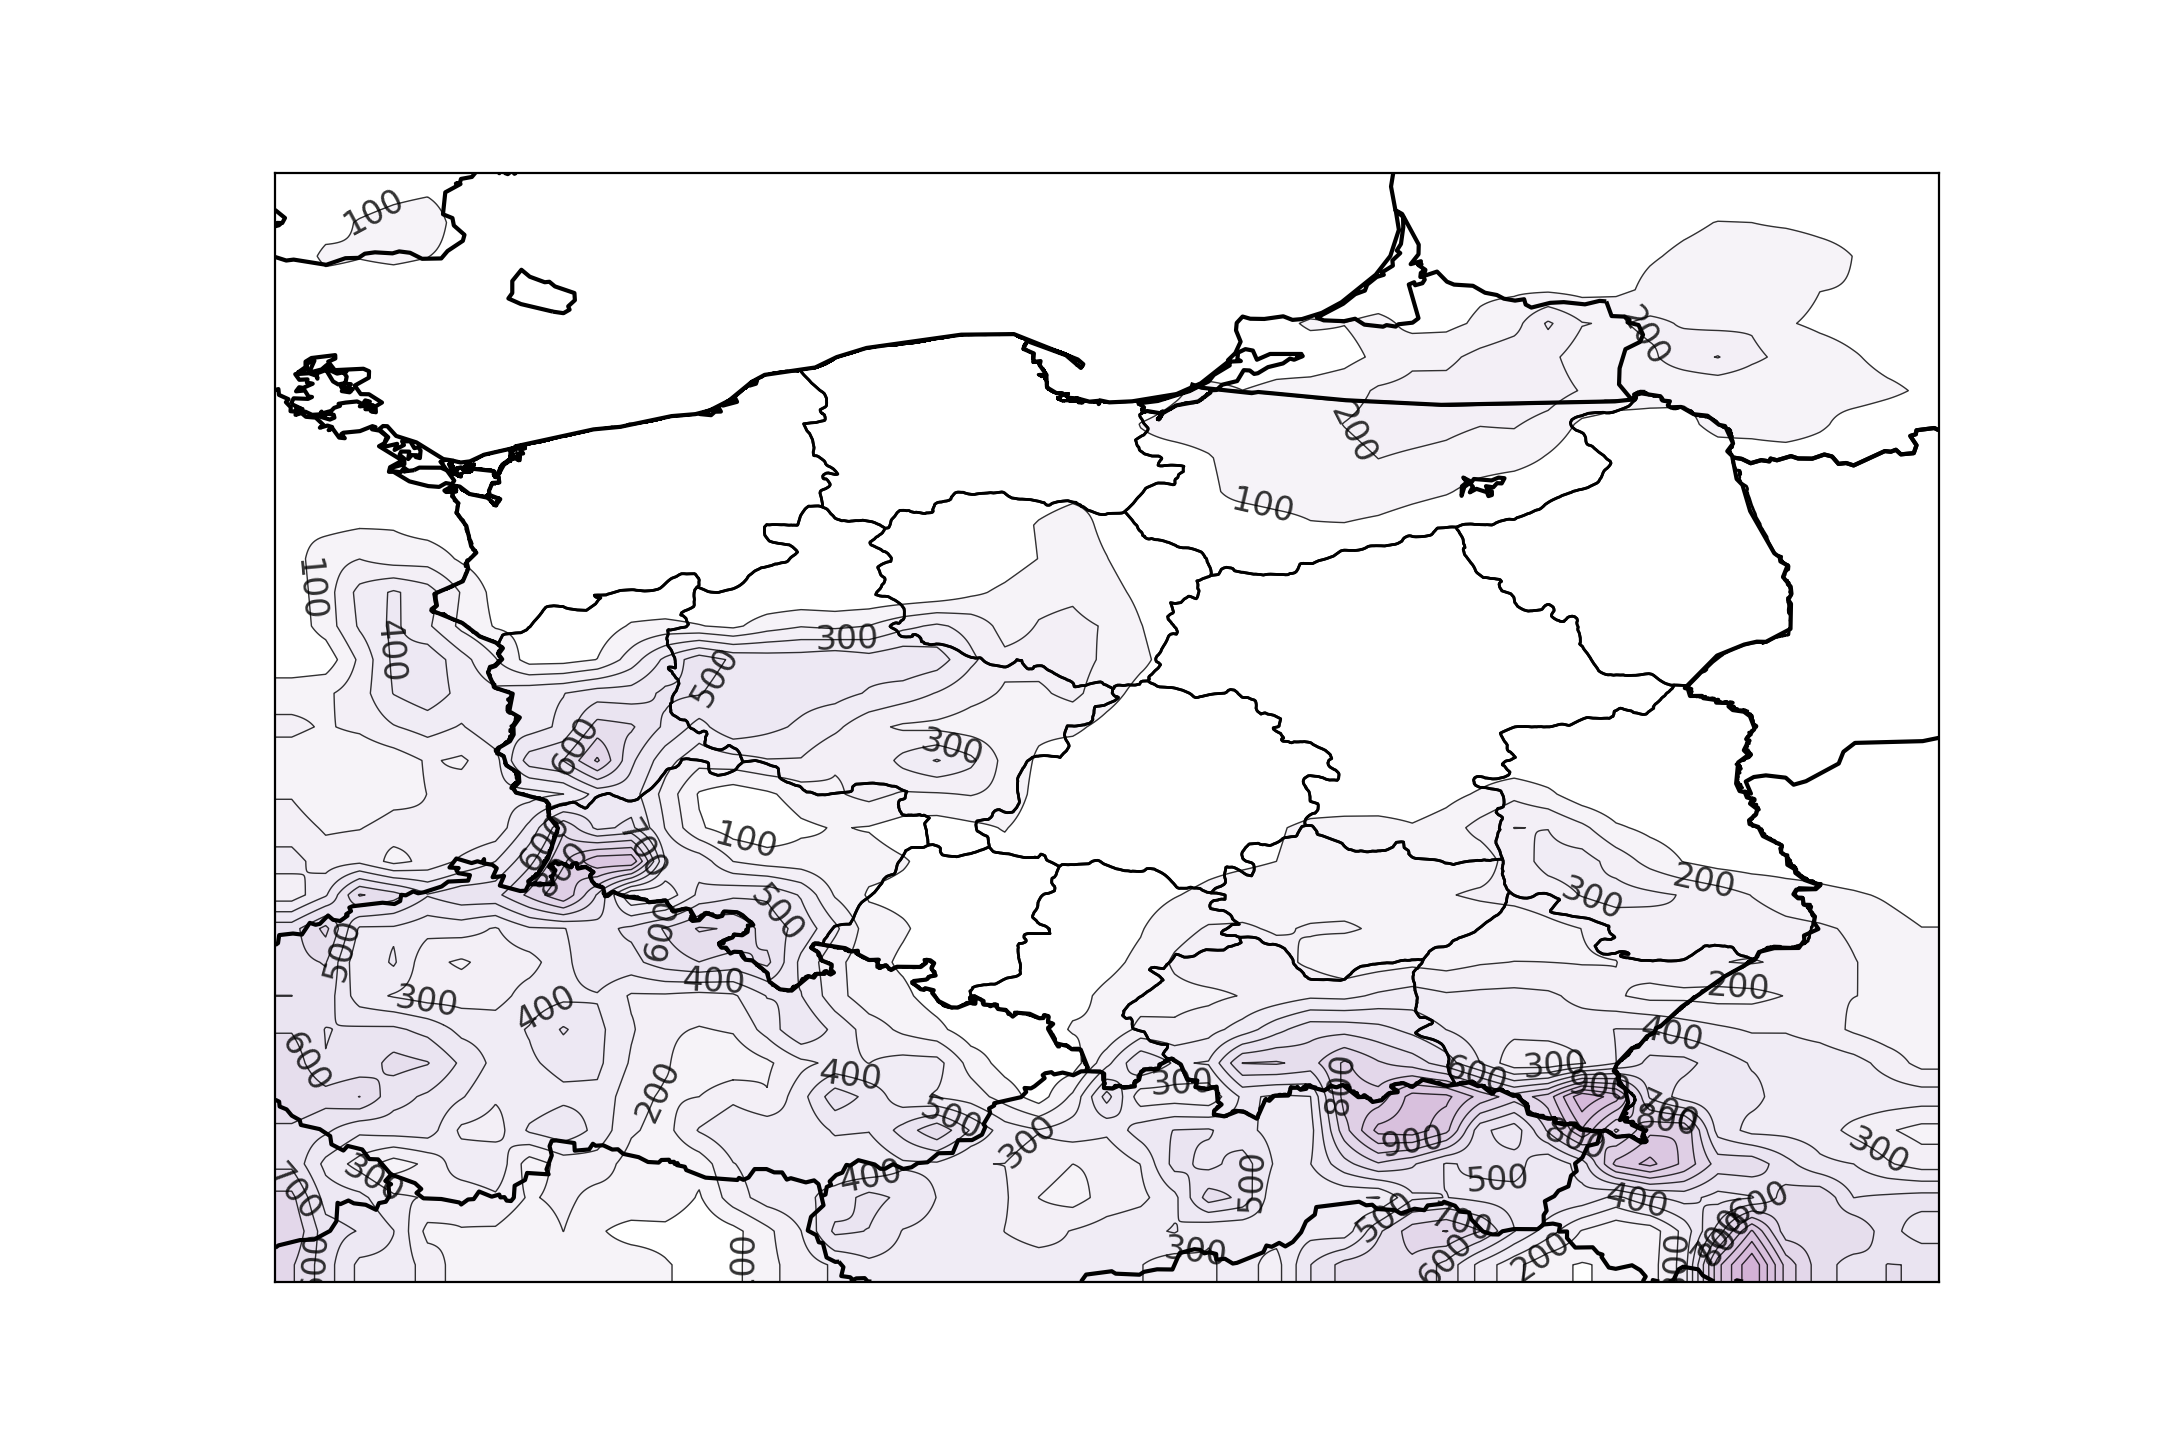
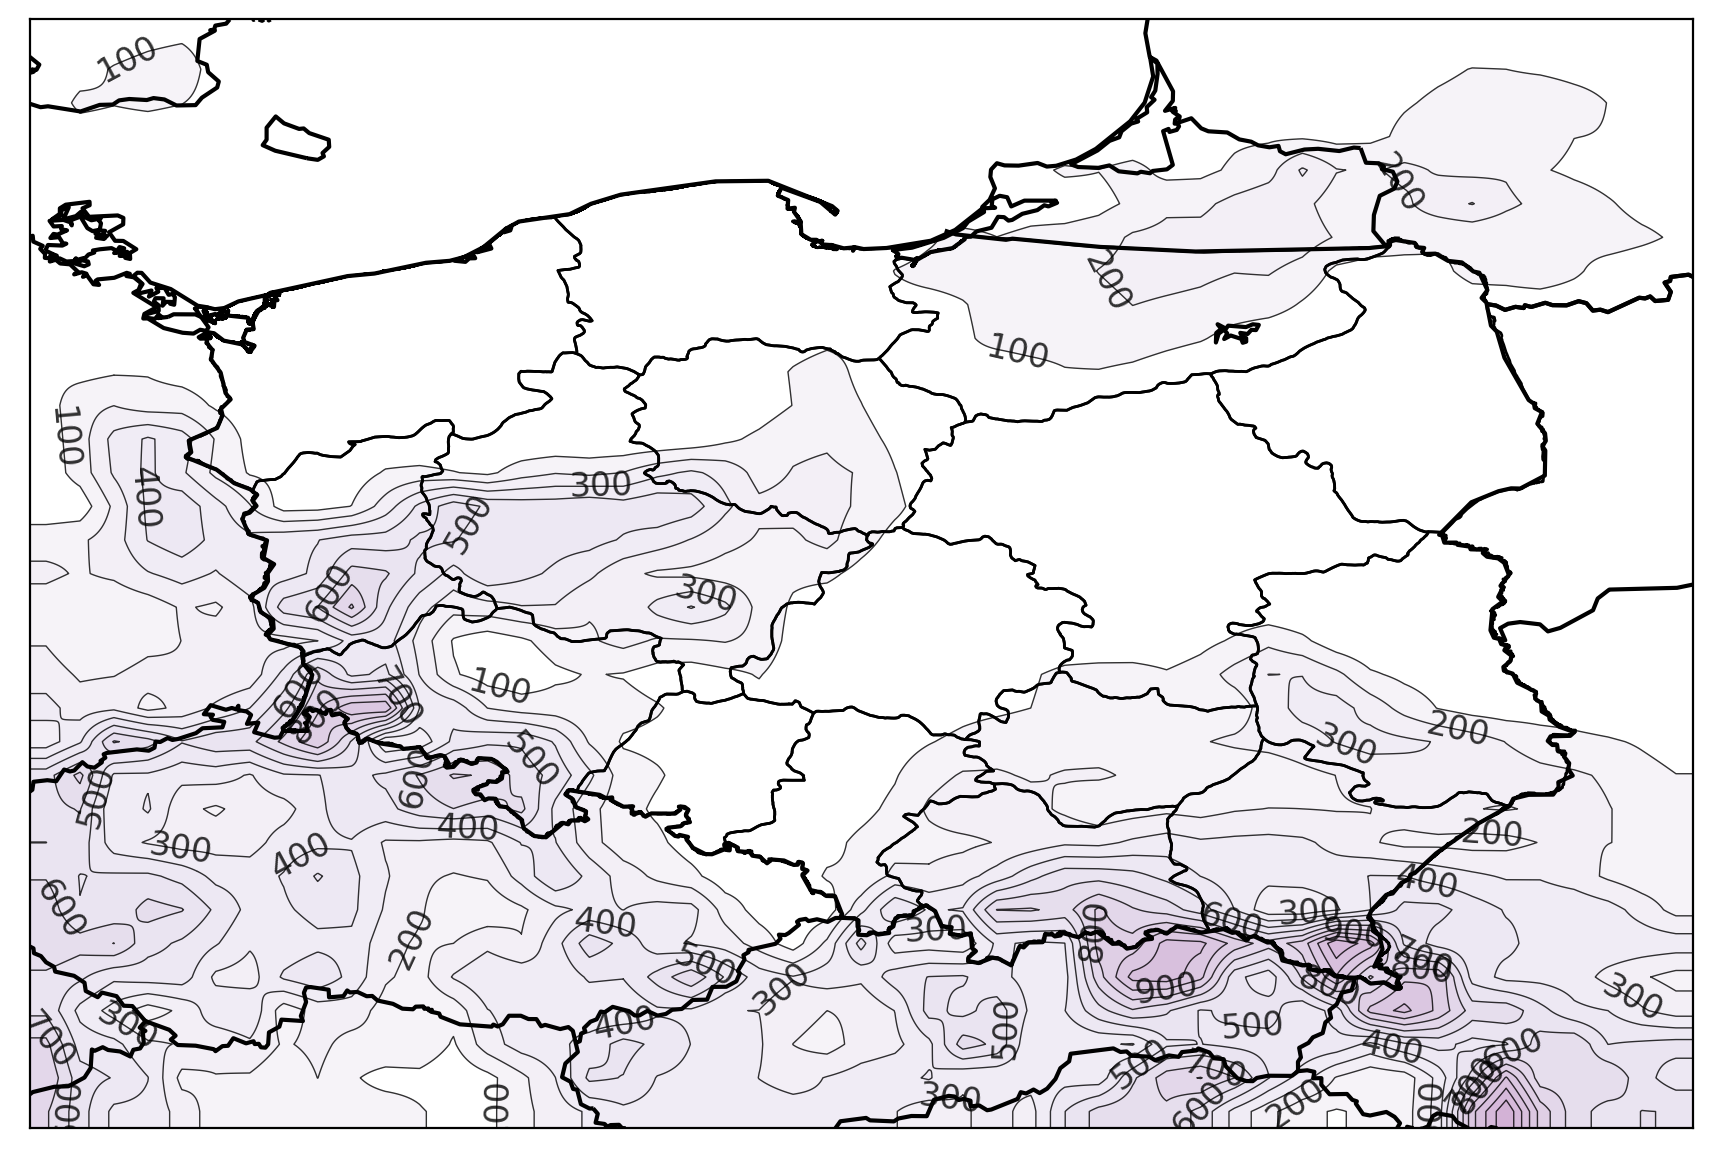
Added basic unittests, changed pic size, changed project structure

diff --git a/project/raw_data_visualization.py b/project/raw_data_visualization.py
@@ -98,6 +98,23 @@ def gfs_get_raw_data(date: str, hour: int, forecast: int, extent: List[int]):
     :param extent: given extent as List[int] in format: [left_lon, right_lon, top_lat, bottom_lat]
     """
 
+    if type(date) != str:
+        raise TypeError("Date should be a string in format YYYYMMDD!")
+    if type(hour) != int:
+        raise TypeError("Hour should be one of integers: 0, 6, 12, 18!")
+    if type(forecast) != int:
+        raise TypeError("Forecast should be one of integers in range 0-392!")
+
+    if len(date) != 8:
+        raise ValueError("Date should be a string in format YYYYMMDD!")
+    if hour not in [0, 6, 12, 18]:
+        raise ValueError("Hour should be one of integers: 0, 6, 12, 18!")
+    if forecast not in [num for num in range(0, 393)]:
+        raise ValueError("Forecast should be one of integers in range 0-392!")
+    if len(extent) != 4:
+        raise ValueError("Extent should be a List of four integers!")
+
+
     left_lon = extent[0]
     right_lon = extent[1]
     top_lat = extent[2]
@@ -264,5 +281,5 @@ def gfs_download_newest_data():
 if __name__ == '__main__':
     data = gfs_prepare_raw_data_as_array("20200815", 12, 0, BANDS["CAPE surface"])
     fig = gfs_visualize_gradient_map(data, EXTENT_POLAND, "CAPE surface")
-    fig.savefig('test8.png')
+    fig.savefig('test8.png', bbox_inches='tight')
     # gfs_download_newest_data()

diff --git a/tests/tests.py b/tests/tests.py
@@ -1,0 +1,23 @@
+import unittest
+import numpy as np
+from project import raw_data_visualization as rdv
+
+
+class TestRawDataVisualization(unittest.TestCase):
+    def test_temperature_levels(self):
+        levels, cmap = rdv.choose_levels("Temperature 2m")
+        self.assertEqual(len(levels), len([num for num in range(-30, 42)]))
+        self.assertEqual(cmap, 'jet')
+
+    def test_gfs_get_raw_data(self):
+        self.assertRaises(TypeError, lambda: rdv.gfs_get_raw_data(20200816, 12, 0, rdv.EXTENT_POLAND))
+        self.assertRaises(ValueError, lambda: rdv.gfs_get_raw_data("20200816", 1, 0, rdv.EXTENT_POLAND))
+
+    def test_matrix_resize(self):
+        array1 = np.array([[0, 1], [1, 0]])
+        array2 = np.array([[0, 0, 1, 1], [0, 0, 1, 1], [1, 1, 0, 0], [1, 1, 0, 0]])
+        self.assertTrue((rdv.matrix_resize(array1, 2) == array2).all())
+
+
+if __name__ == '__main__':
+    unittest.main()
